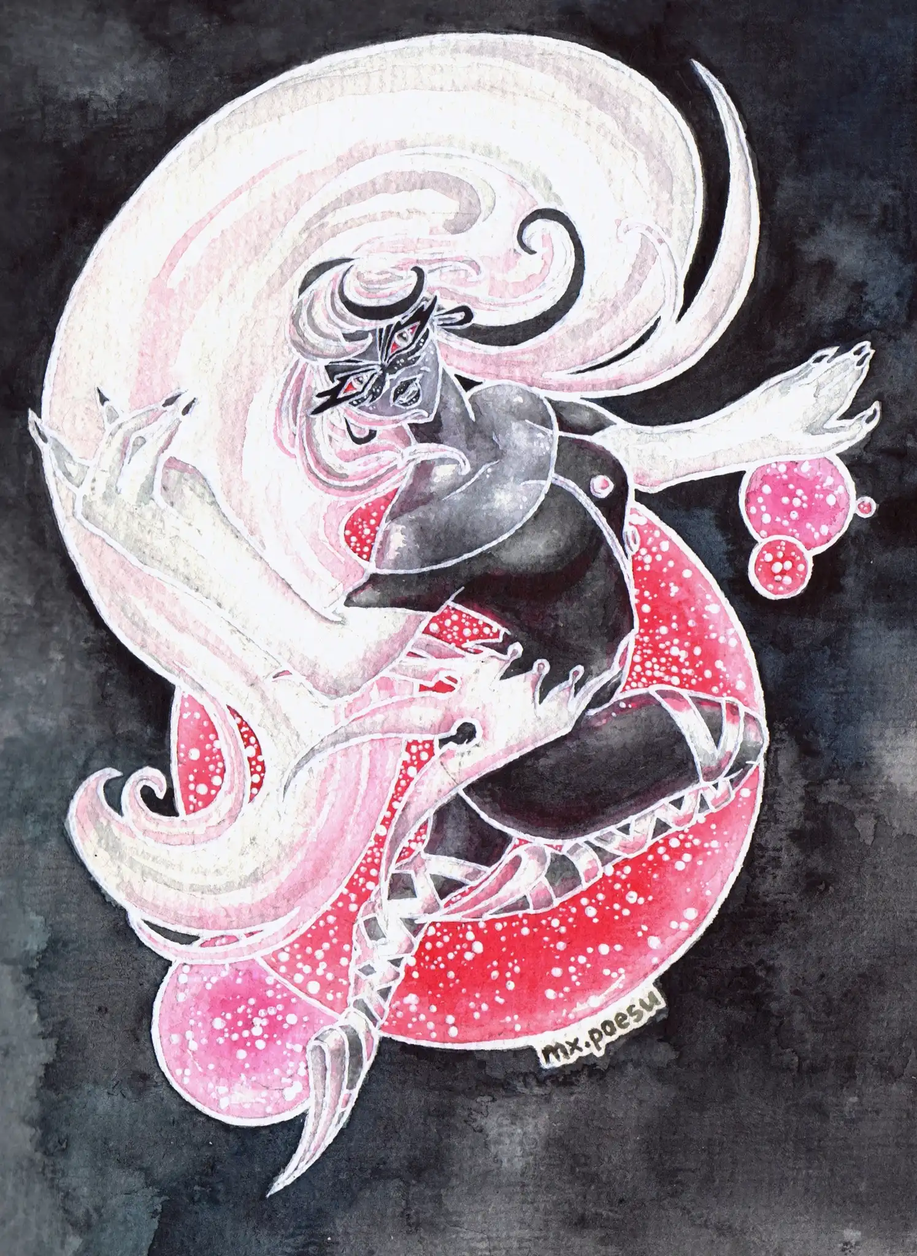
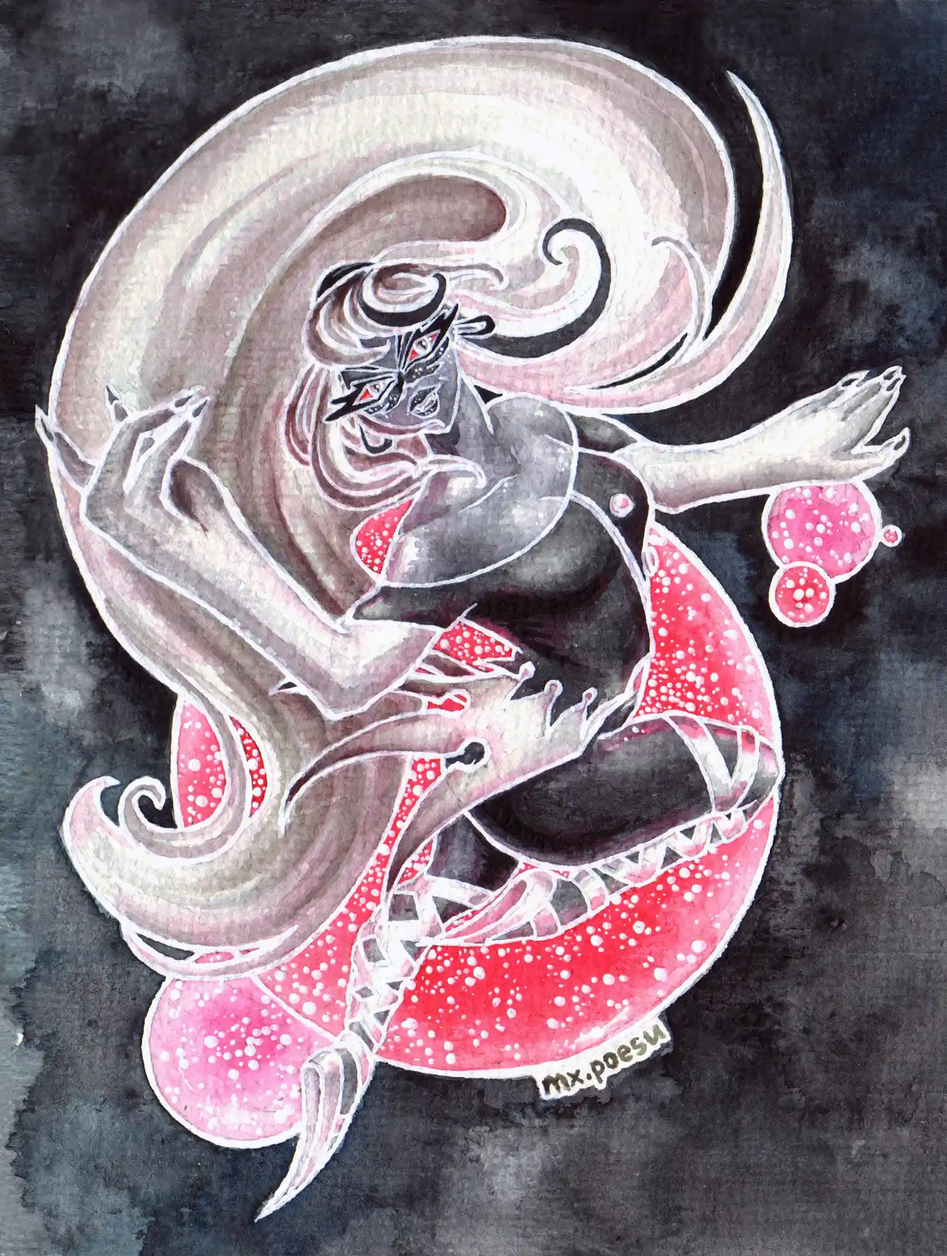
New art + edited Carmilla

diff --git a/index.html b/index.html
@@ -45,7 +45,8 @@
 			<div class="art-grid" id="art">
 				<h1 id="2025"><a class="self-link" href="#2025">§</a>2025</h1>
 				<div class="pic-justify">
-						<img src="gallery/thumbnails-1080/2025-06-14.webp" alt="A drawing of a pink dragon with black horns and claws">
+						<img src="gallery/thumbnails-1080/2025-07-05.webp" alt="Sand cat furry in a pink dress">
+						<img src="gallery/thumbnails-1080/2025-06-14.webp" alt="Pink dragon with black horns and claws">
 						<img src="gallery/thumbnails-1080/2025-05-31.webp" alt="Portrait">
 						<img src="gallery/thumbnails-1080/2025-04-30.webp" alt="Harpy Eda sleeping in her nest">
 						<img src="gallery/thumbnails-1080/2025-03-21.webp" alt="Portrait of Harpy Eda with short hair">
